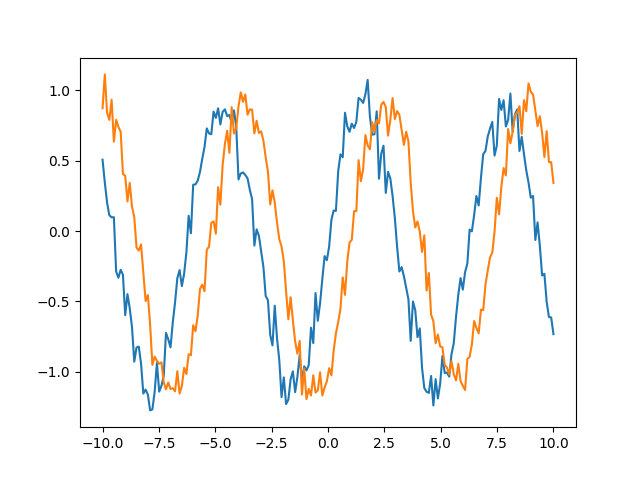
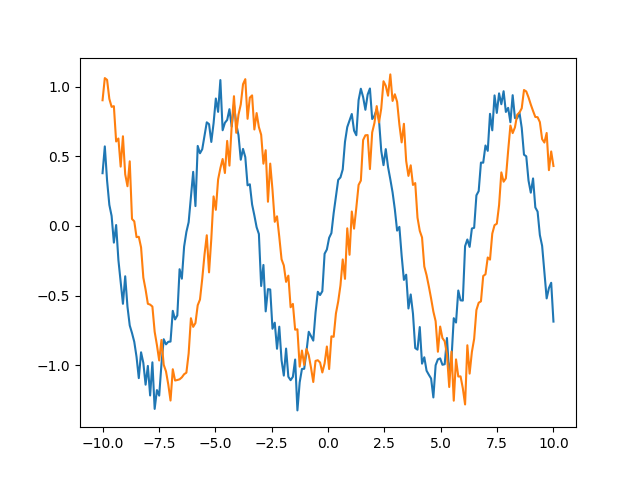
mv data get to another function

diff --git a/plo7y/plotters/ccf_test.py b/plo7y/plotters/ccf_test.py
@@ -1,11 +1,12 @@
 from unittest import TestCase
 import matplotlib.pyplot as plt
 import sys
+import numpy as np
 
 from plo7y._tests import get_test_output_path
 
 
-def get_sample_data():
+def _get_testdata_out_of_phase_sines():
     print("creating example covariance data.")
     import numpy as np
     import pandas as pd
@@ -26,6 +27,17 @@ def get_sample_data():
     return dta, exog
 
 
+def _get_testdata_noisy_sines():
+    # npts = 500
+    x = np.linspace(0, 50, 500)
+
+    npts = len(x)
+    y1 = 5 * np.sin(x/2) + np.random.randn(npts)
+    # y2 = 5 * np.cos(x/2) + np.random.randn(npts)
+    y2 = 5 * np.sin(x/2) + np.random.randn(npts)
+    return x, y1, y2
+
+
 class Test_ccf(TestCase):
     def tearDown(self):
         plt.clf()
@@ -33,7 +45,7 @@ class Test_ccf(TestCase):
     def test_ccf_plot_on_sample_data(self):
         from plo7y.plotters.ccf import plotCCF
 
-        dta, exog = get_sample_data()
+        dta, exog = _get_testdata_out_of_phase_sines()
         plotCCF(
             dta, exog, saveFigPath=get_test_output_path(
                 __file__, sys._getframe().f_code.co_name
@@ -45,8 +57,9 @@ class Test_cross_correlation(TestCase):
     def test_cross_correlation_on_sample_data(self):
         from plo7y.plotters.cross_correlation import plot
 
-        dta, exog = get_sample_data()
+        x, y1, y2 = _get_testdata_noisy_sines()
         plot(
+            x, y1, y2,
             # dta, exog,
             saveFigPath=get_test_output_path(
                 __file__, sys._getframe().f_code.co_name

diff --git a/plo7y/plotters/cross_correlation.py b/plo7y/plotters/cross_correlation.py
@@ -7,15 +7,7 @@ import numpy as np
 import matplotlib.pyplot as plt
 
 
-def plot(*args, saveFigPath, **kwargs):
-    # npts = 500
-    x = np.linspace(0, 50, 500)
-
-    npts = len(x)
-    y1 = 5 * np.sin(x/2) + np.random.randn(npts)
-    # y2 = 5 * np.cos(x/2) + np.random.randn(npts)
-    y2 = 5 * np.sin(x/2) + np.random.randn(npts)
-
+def plot(x, y1, y2, *args, saveFigPath, **kwargs):
     def crocor(x, y):
         npts = len(x)
         lags = np.arange(-npts + 1, npts)
